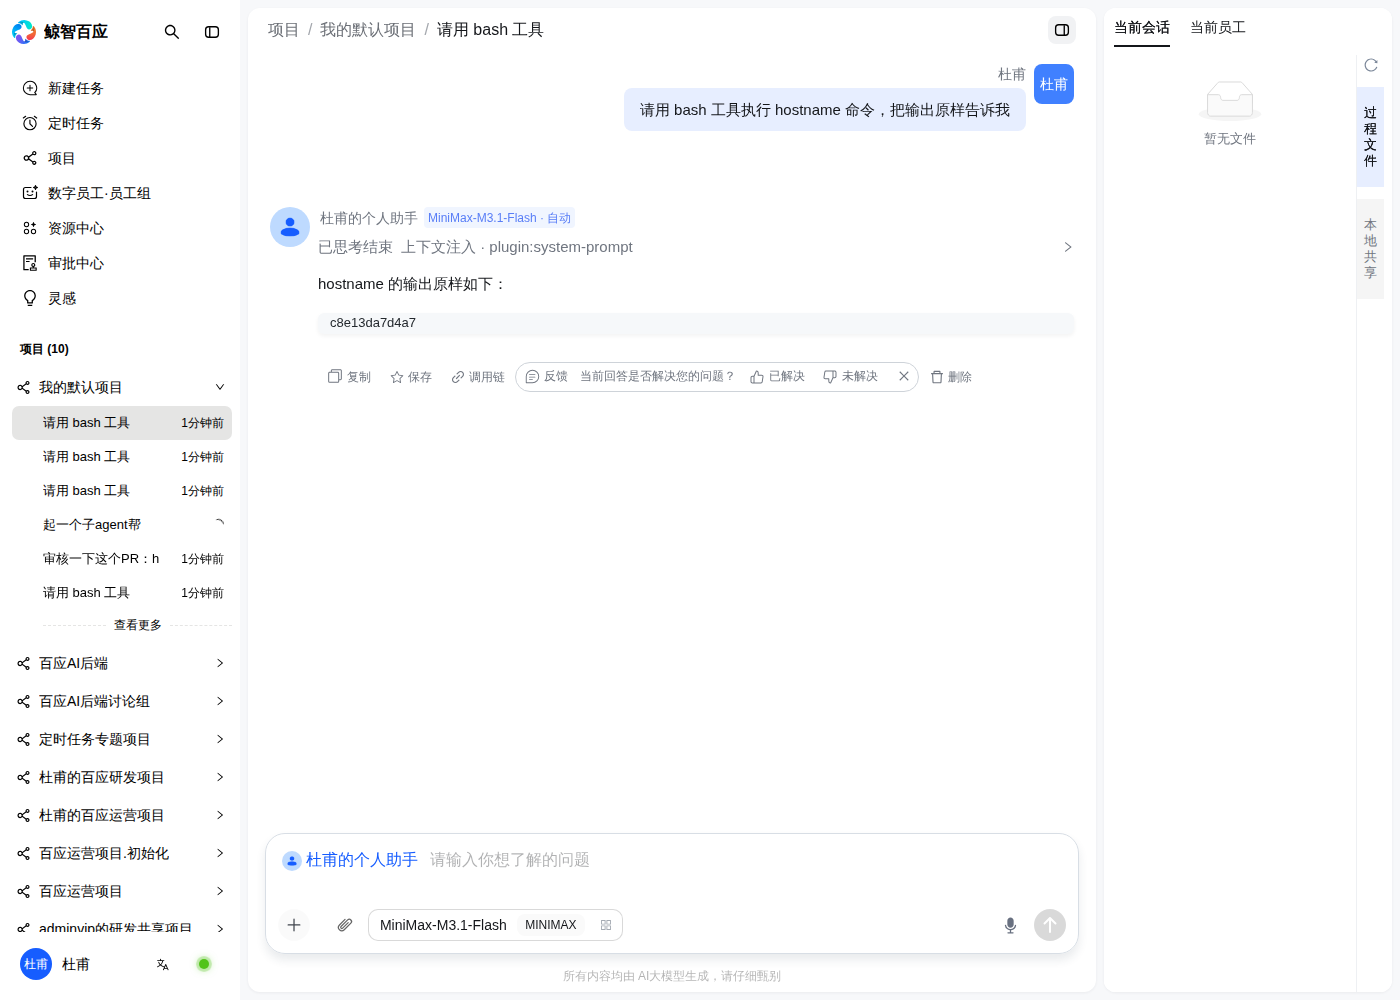
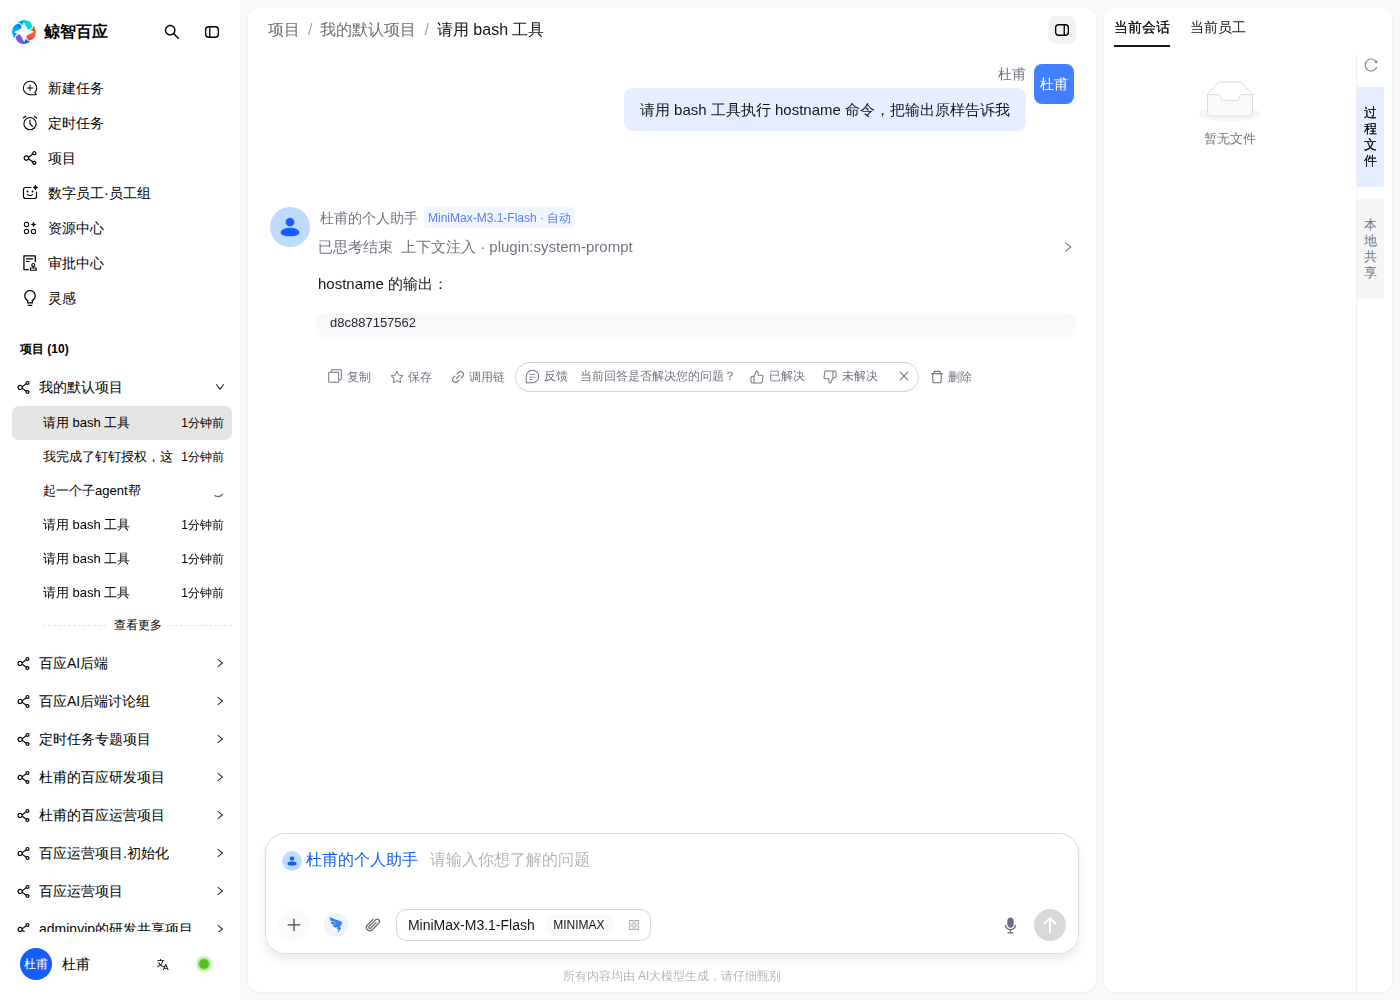
evidence: busy-aware idle release and re-taken token run

diff --git a/d060/README.md b/d060/README.md
@@ -1,4 +1,4 @@
-# Verification of PR #315 (`fix/shared-host-token-renewal`, commit e4be1ae62), 2026-10-26
+# Verification of PR #315 (`fix/shared-host-token-renewal`, commits e4be1ae62, 2e47182b8, f46164fe0), 2026-10-26
 
 Deployed on the test environment: BE built from the branch, the branch's `dsh-tool-env` plugin and `byclaw-multi-host.mjs`
 in the shared host container (every other plugin as shipped in the harness image), the stock `D0.6.0` FE image. Times are
@@ -11,3 +11,6 @@ the environment's local time.
 | `logs/relogin-renews-token.host.log` | the context boots with an unusable token, the user logs in (BE's login auto-start PUT at 16:32:51 carries a fresh token), the launch at 16:33:13 goes through with no 401 |
 | `logs/plugin-idle-release.txt` | sandbox `933c12d2` created 16:06:58, released by the plugin at 16:17:00 after 10 idle minutes (`released tool environment … idle for 600000 ms; paused`), record `RELEASED` |
 | `logs/plugin-release-on-context-dispose.txt` | the user's context is deleted (admin DELETE) at 16:31:26; sandbox `7caf869a` is released by the plugin's close path (record released 16:31:24, container gone) |
+| `logs/kept-by-residual-process-then-released.txt` | idle period set to 2 minutes for the test; a detached `sleep` on the sandbox makes the first idle cycle log `… 1 process(es) still run on it (sleep[73]); keeping it`; after the process is killed the next cycle releases the sandbox (record `RELEASED`) |
+
+The token screenshot/log were re-taken on the final build (17:37 local time); the idle, re-login and dispose logs are from the first D0.6.0-based build of the same day and the code paths are unchanged.
